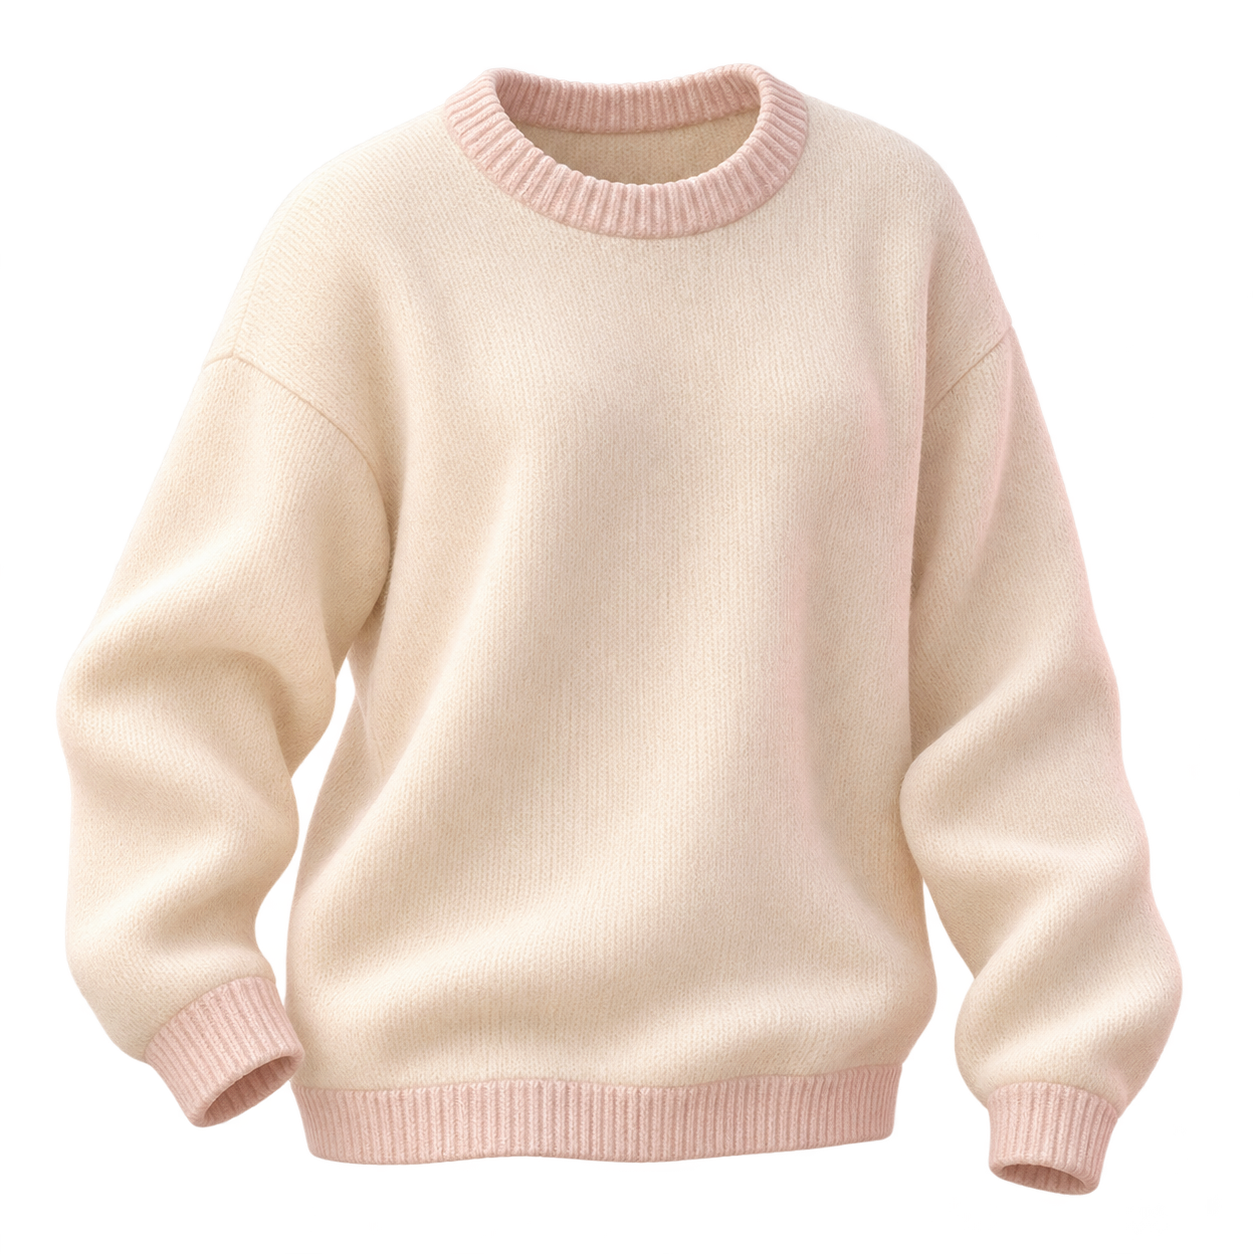
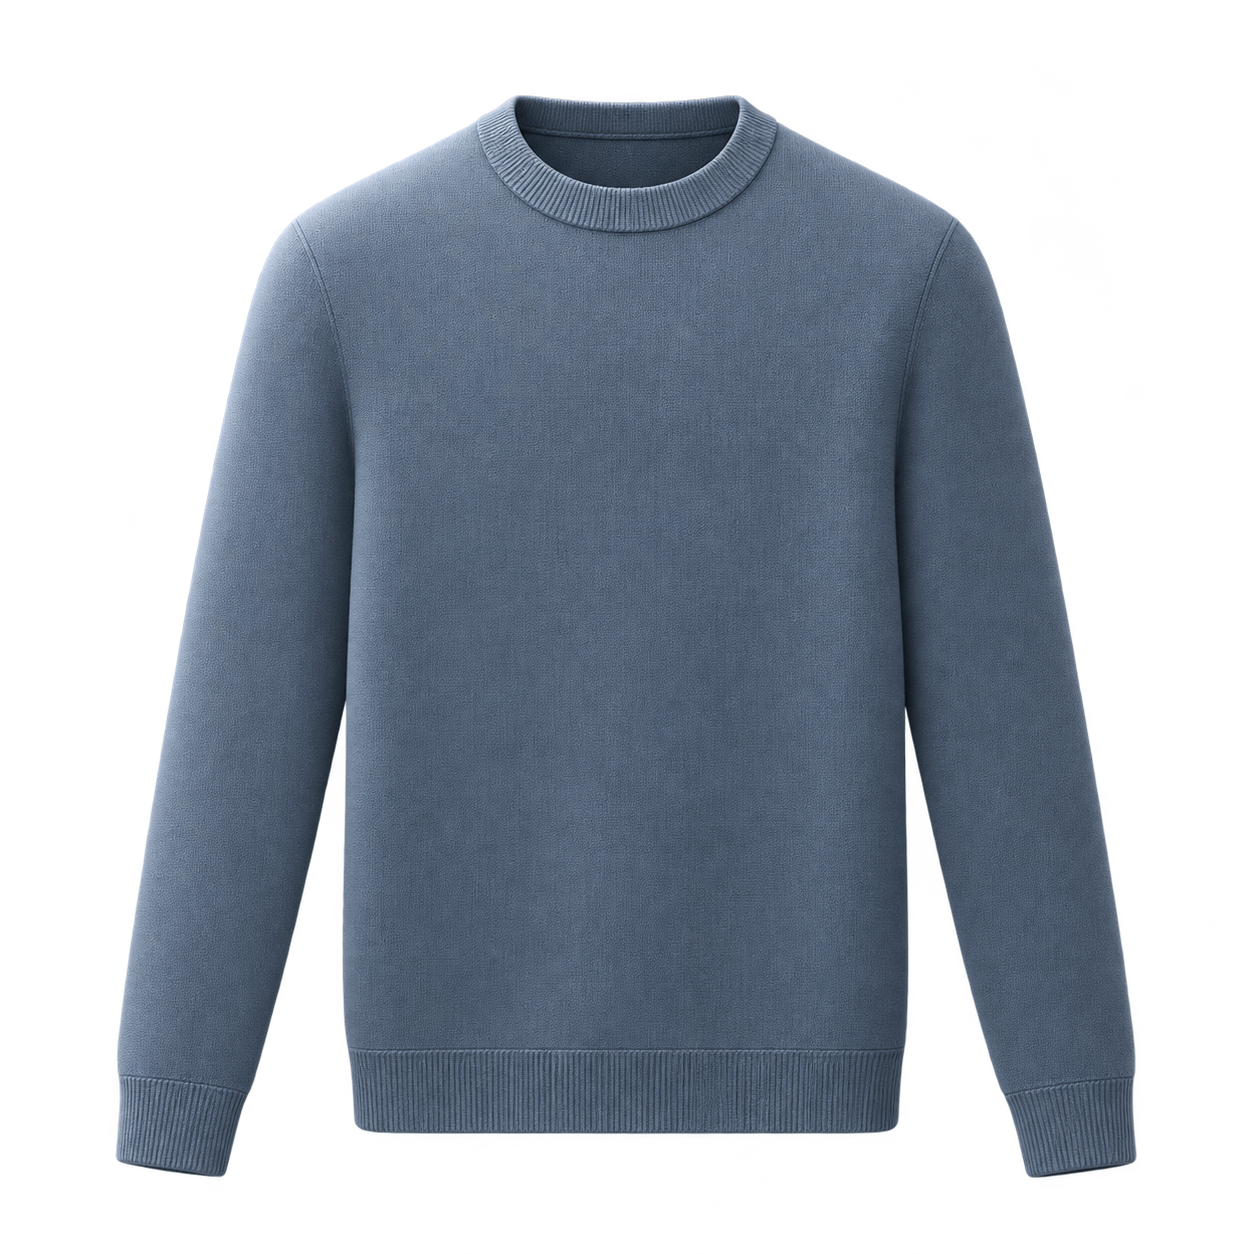
feat(wishes): refine clothing and remove armchair

diff --git a/lib/domain/wishlist_goal.dart b/lib/domain/wishlist_goal.dart
@@ -73,7 +73,6 @@ const goalStyles = [
   'travel',
   'clothing',
   'learning',
-  'home',
 ];
 const goalStyleNames = {
   'gift': '自由心愿',
@@ -83,7 +82,6 @@ const goalStyleNames = {
   'travel': '旅行探索',
   'clothing': '服饰穿搭',
   'learning': '阅读学习',
-  'home': '舒适居家',
 };
 String goalAsset(String style) => style == 'gift'
     ? 'assets/characters/wish-gift-v1.png'

diff --git a/test/widgets/wish_styles_test.dart b/test/widgets/wish_styles_test.dart
@@ -6,7 +6,7 @@ import '../support/memory_repository.dart';
 import 'package:wallehog/domain/backup.dart';
 
 void main() {
-  for (final style in ['travel', 'clothing', 'learning', 'home']) {
+  for (final style in ['travel', 'clothing', 'learning']) {
     testWidgets('new representative wish $style preserves a custom name', (
       tester,
     ) async {

diff --git a/lib/app/app_strings.dart b/lib/app/app_strings.dart
@@ -232,7 +232,6 @@ const englishMessages = <String, String>{
   '旅行探索': 'Travel and exploration',
   '服饰穿搭': 'Clothing and style',
   '阅读学习': 'Reading and learning',
-  '舒适居家': 'Home comforts',
   '耳机': 'Headphones',
   '相机': 'Camera',
   '存下一个小确幸': 'A little win saved',

diff --git a/docs/WISH_ILLUSTRATIONS.md b/docs/WISH_ILLUSTRATIONS.md
@@ -2,17 +2,15 @@
 
 [English](WISH_ILLUSTRATIONS.md) · [简体中文](WISH_ILLUSTRATIONS.zh-CN.md)
 
-2026-11-10. Integration target: main; development branch: codex/wish-images. Visual acceptance is pending. Do not treat this checkpoint as completed device delivery.
+2026-11-10. Branch: codex/wish-images. Integration target: main. Visual review is ongoing; device delivery, integration and push are pending. Other independent work has not been integrated.
 
-New illustrations represent categories rather than particular brands or models: suitcase for travel and holidays; sweater for clothing, personal style and wardrobe upgrades; books for reading, courses and learning; armchair for furniture, decoration and home comfort. These extend the existing four choices to eight. Existing controller, headphones, camera and gift remain unchanged. Users select an illustration explicitly and supply their own wish name and amount; names do not infer categories or prices.
+Three new representative categories extend the existing four choices to seven: suitcase for travel and holidays; sweater for clothing and personal style; books for reading, courses and learning. The user removed the sneaker and armchair during review. Existing controller, headphones, camera and gift remain unchanged. Illustration selection is explicit; users supply their own wish name and amount, without automatic category or price inference.
 
-Original PNGs were generated using the built-in ImageGen tool, copied unchanged into assets/characters, with alpha preserved. No reference image was supplied to generation. Prompts use the existing camera and gift's material and lighting description. No dependency, database migration or backup format change is required. The existing editor wraps the eight options into two rows.
+Style follows the existing crisp physical-object 3D renders, soft lighting and refined materials. Pink is optional, not a palette requirement. The revised sweater is muted slate blue, neatly arranged with level shoulders, straight sleeves and an even hem, without rumpled fabric or prominent folds.
 
-Pending: user visual feedback, final device validation and ordinary-app installation, integration and push. Other ongoing branches have not been integrated. Full prompts follow.
+Built-in ImageGen produced the original transparent PNGs, copied unchanged into assets/characters with alpha preserved. Travel and books used descriptive prompts without image inputs. The revised sweater used the existing controller, headphones and camera as style references only. No new dependencies, database migration or backup format change is required. The existing editor displays seven choices across two rows.
 
-Previous checkpoint validation (before replacing the sneaker): all four PNGs are 1254 × 1254 RGBA with genuine alpha. Dart formatting, flutter analyze, 19 focused tests, release APK build and git diff --check passed.
-
-Review update: the user requested replacing the sneaker with clothing. The new sweater uses style key clothing and label Clothing and style. The sneaker is removed from runtime assets; the earlier source checkpoint preserves its history. The new PNG is 1254 × 1254 RGBA. Formatting, analysis and 19 focused tests pass after replacement. No APK rebuild/install during this review iteration.
+Validation for the previous checkpoint: formatting, static analysis, 19 focused tests and a release APK build passed. After removing the armchair and revising the sweater, formatting, static analysis and 18 focused tests passed; no APK rebuild/install during individual review annotations. Full prompts follow.
 
 ## wish-travel-v1.png
 
@@ -23,7 +21,7 @@ Use case: stylized-concept. Asset type: Wallehog mobile savings wish-card transp
 ## wish-clothing-v1.png
 
 ```text
-undefined
+Use case: stylized-concept. Create a new Wallehog savings app wish illustration. Input images 1-3 are STYLE REFERENCES ONLY: existing controller, headphones and camera. Match their premium realistic physical-object 3D product render, crisp silhouette, restrained material detailing, soft upper-left studio lighting and clean isolated presentation; do not copy their subjects. Subject: ONE unbranded gender-neutral classic fine-knit crew-neck pullover in muted slate blue, with matching tonal ribbed collar, cuffs and hem, no pink trim. The sweater represents clothing and personal style generally. Neat product catalog display, pressed and meticulously arranged, frontal view with extremely subtle depth, straight horizontal hem, balanced level shoulders, both sleeves straight and neatly angled downward symmetrically, no bent cuffs. Smooth even body and sleeves, NO wrinkles, rumples, draped folds, sagging fabric, bunching, creases or wavy hem. Fine subtle knit texture is visible but shape is structured and tidy, not inflated or puffy. Garment empty, no mannequin, person, hanger or body. Single centered object fully visible within square canvas with 10 percent transparent margins. Actual transparent background with clean antialiasing. No text, labels, brands, logos, decorations, coins, pig, props, scenery, ground, baked drop shadow or watermark. This is a clothing category representative, not a fashion advertisement. Keep it readable as a small wish-card icon.
 ```
 
 ## wish-learning-v1.png
@@ -31,10 +29,3 @@ undefined
 ```text
 Use case: stylized-concept. Asset type: Wallehog mobile savings wish-card transparent illustration. Two beautifully bound books stacked with one slightly rotated, ivory and muted sage covers with a blush ribbon bookmark. Represents reading, courses, study and personal growth; blank covers and spines. Premium satin physical product 3D render matching the existing ivory champagne camera and blush gift assets. Soft upper-left studio lighting, delicate pink reflected light, refined tactile material, calm warm playful mood. Three-quarter view facing slightly left, centered square composition, entire object visible occupying about 78 percent of canvas with generous margins. Gently floating isolated cutout. Actual transparent background. No brand, logos, text, letters, numbers, coins, people, pig, scenery, ground plane, baked drop shadow or watermark. A representative category symbol that remains recognizable at 64px; simple clear silhouette, restrained detail. Save PNG.
 ```
-
-## wish-home-v1.png
-
-```text
-Use case: stylized-concept. Asset type: Wallehog mobile savings wish-card transparent illustration. One inviting rounded upholstered armchair, ivory soft fabric, pale wooden feet and one muted blush cushion. Represents furniture, home decoration and a comfortable living space, not a particular product. Premium satin physical product 3D render matching the existing ivory champagne camera and blush gift assets. Soft upper-left studio lighting, delicate pink reflected light, refined tactile material, calm warm playful mood. Three-quarter view facing slightly left, centered square composition, entire object visible occupying about 78 percent of canvas with generous margins. Gently floating isolated cutout. Actual transparent background. No brand, logos, text, letters, numbers, coins, people, pig, scenery, ground plane, baked drop shadow or watermark. A representative category symbol that remains recognizable at 64px; simple clear silhouette, restrained detail. Save PNG.
-```
-

diff --git a/docs/WISH_ILLUSTRATIONS.zh-CN.md b/docs/WISH_ILLUSTRATIONS.zh-CN.md
@@ -2,17 +2,15 @@
 
 [English](WISH_ILLUSTRATIONS.md) · [简体中文](WISH_ILLUSTRATIONS.zh-CN.md)
 
-2026-11-10。集成目标：main；开发分支：codex/wish-images。视觉验收待完成，此检查点不代表真机交付完成。
+2026-11-10。分支：codex/wish-images；集成目标：main。视觉评审进行中；真机交付、集成及推送待完成，其他独立工作尚未集成。
 
-新增插画用代表物表达类别，而非具体品牌或型号：旅行箱代表旅行与度假；针织衫代表服装、穿搭与衣橱更新；书本代表阅读、课程与学习；扶手椅代表家具、布置与居家舒适。现有四个选项扩展为八个，原手柄、耳机、相机与礼物不变。用户明确选择图片并填写自己的心愿名称与金额，不按名称推断类别或价格。
+新增三类代表物，现有四个选项扩展为七个：旅行箱代表旅行与度假；针织衫代表服装与穿搭；书本代表阅读、课程与学习。用户在评审中移除了运动鞋与扶手椅。现有手柄、耳机、相机和礼物不变。用户明确选择图片，自己填写心愿名称和金额，不自动推断类别或价格。
 
-原创 PNG 使用内置 ImageGen 生成，原样复制到 assets/characters 并保留 alpha。生成时未输入参考图片；提示词沿用现有相机与礼物的材质、光照描述。无需新增依赖、数据库迁移或备份格式变更。现有编辑器将八个选项自动排列为两行。
+风格遵循现有素材清晰的实体物件立体效果、柔和光照与精致材质。粉色可选，并非配色要求。新版针织衫采用低饱和灰蓝色，肩线水平、袖子平直、下摆齐整，避免凌乱衣形和明显褶皱。
 
-待完成：用户视觉反馈、最终真机验证与普通应用覆盖安装、集成及推送。其他进行中的分支尚未集成。以下为完整提示词。
+原创透明 PNG 由内置 ImageGen 生成，原样复制到 assets/characters 并保留 alpha。旅行箱与书本使用文字描述，未输入图片；新版针织衫以现有手柄、耳机和相机作为风格参考。无需新增依赖、数据库迁移或备份格式变更。现有编辑器分两行显示七个选项。
 
-替换运动鞋前的检查点验证：四张 PNG 均为 1254 × 1254 RGBA，含真实透明通道。Dart 格式化、flutter analyze、19 项相关测试、release APK 构建及 git diff --check 通过。
-
-评审更新：用户要求将鞋子换成衣服。新针织衫使用 clothing 样式键及“服饰穿搭”名称。运动鞋已从运行素材移除，之前的源码检查点保留历史。新 PNG 为 1254 × 1254 RGBA。替换后格式化、分析及 19 项相关测试通过。本轮评审迭代未重复构建或安装 APK。
+此前检查点的格式化、静态分析、19 项相关测试及 release APK 构建通过。移除扶手椅并重做衣服后，格式化、静态分析与 18 项相关测试通过，不针对单条批注重复构建或安装 APK。以下为完整提示词。
 
 ## wish-travel-v1.png
 
@@ -23,7 +21,7 @@ Use case: stylized-concept. Asset type: Wallehog mobile savings wish-card transp
 ## wish-clothing-v1.png
 
 ```text
-undefined
+Use case: stylized-concept. Create a new Wallehog savings app wish illustration. Input images 1-3 are STYLE REFERENCES ONLY: existing controller, headphones and camera. Match their premium realistic physical-object 3D product render, crisp silhouette, restrained material detailing, soft upper-left studio lighting and clean isolated presentation; do not copy their subjects. Subject: ONE unbranded gender-neutral classic fine-knit crew-neck pullover in muted slate blue, with matching tonal ribbed collar, cuffs and hem, no pink trim. The sweater represents clothing and personal style generally. Neat product catalog display, pressed and meticulously arranged, frontal view with extremely subtle depth, straight horizontal hem, balanced level shoulders, both sleeves straight and neatly angled downward symmetrically, no bent cuffs. Smooth even body and sleeves, NO wrinkles, rumples, draped folds, sagging fabric, bunching, creases or wavy hem. Fine subtle knit texture is visible but shape is structured and tidy, not inflated or puffy. Garment empty, no mannequin, person, hanger or body. Single centered object fully visible within square canvas with 10 percent transparent margins. Actual transparent background with clean antialiasing. No text, labels, brands, logos, decorations, coins, pig, props, scenery, ground, baked drop shadow or watermark. This is a clothing category representative, not a fashion advertisement. Keep it readable as a small wish-card icon.
 ```
 
 ## wish-learning-v1.png
@@ -31,10 +29,3 @@ undefined
 ```text
 Use case: stylized-concept. Asset type: Wallehog mobile savings wish-card transparent illustration. Two beautifully bound books stacked with one slightly rotated, ivory and muted sage covers with a blush ribbon bookmark. Represents reading, courses, study and personal growth; blank covers and spines. Premium satin physical product 3D render matching the existing ivory champagne camera and blush gift assets. Soft upper-left studio lighting, delicate pink reflected light, refined tactile material, calm warm playful mood. Three-quarter view facing slightly left, centered square composition, entire object visible occupying about 78 percent of canvas with generous margins. Gently floating isolated cutout. Actual transparent background. No brand, logos, text, letters, numbers, coins, people, pig, scenery, ground plane, baked drop shadow or watermark. A representative category symbol that remains recognizable at 64px; simple clear silhouette, restrained detail. Save PNG.
 ```
-
-## wish-home-v1.png
-
-```text
-Use case: stylized-concept. Asset type: Wallehog mobile savings wish-card transparent illustration. One inviting rounded upholstered armchair, ivory soft fabric, pale wooden feet and one muted blush cushion. Represents furniture, home decoration and a comfortable living space, not a particular product. Premium satin physical product 3D render matching the existing ivory champagne camera and blush gift assets. Soft upper-left studio lighting, delicate pink reflected light, refined tactile material, calm warm playful mood. Three-quarter view facing slightly left, centered square composition, entire object visible occupying about 78 percent of canvas with generous margins. Gently floating isolated cutout. Actual transparent background. No brand, logos, text, letters, numbers, coins, people, pig, scenery, ground plane, baked drop shadow or watermark. A representative category symbol that remains recognizable at 64px; simple clear silhouette, restrained detail. Save PNG.
-```
-

diff --git a/docs/STATUS.md b/docs/STATUS.md
@@ -7,9 +7,9 @@ Updated: 2026-11-07.
 
 ## Representative wish images (2026-11-10)
 
-- Branch: `codex/wish-images`; integration target: `main`. Added suitcase, sweater, books and armchair as representative travel, clothing, learning and home illustrations; existing four assets remain unchanged. See [asset sources and prompts](WISH_ILLUSTRATIONS.md).
-- Formatting, static analysis and 19 focused wish/widget/backup tests pass. The previous sneaker checkpoint built a universal release APK (61.5 MB); no rebuild/install was performed during the clothing review iteration. Visual feedback and physical-device delivery remain pending.
-- Other independent work remains unfinished (`codex/home-widget`, `codex/wish-binding-review`, `codex/apk-signing-fix`). This source checkpoint does not integrate those tasks or replace the ordinary app. Integration and push remain pending until the combined delivery is ready.
+- Branch: `codex/wish-images`; target: `main`. Three new categories: travel, clothing and learning. The user removed the sneaker and armchair, requested a tidy sweater without wrinkles, and clarified that pink is optional. See [sources and prompts](WISH_ILLUSTRATIONS.md).
+- Visual review continues. Previous checkpoint analysis, 19 tests and release build passed; latest iteration formatting, analysis and 18 focused tests passed. No APK rebuild/install for individual review annotations.
+- Device delivery, integration and push remain pending; other independent work remains unfinished (`codex/home-widget`, `codex/wish-binding-review`, `codex/apk-signing-fix`).
 
 ## Repository synchronization
 

diff --git a/docs/STATUS.zh-CN.md b/docs/STATUS.zh-CN.md
@@ -7,9 +7,9 @@
 
 ## 心愿类别图片（2026-11-10）
 
-- 分支：`codex/wish-images`；集成目标：`main`。新增旅行箱、针织衫、书本和扶手椅，分别代表旅行、服饰、学习和居家；现有四张素材不变。见[素材来源及提示词](WISH_ILLUSTRATIONS.zh-CN.md)。
-- 格式化、静态分析及 19 项心愿、界面和备份相关测试通过。此前运动鞋检查点的通用 release APK 构建通过（61.5 MB），衣服评审迭代未重复构建或安装；视觉反馈与真机交付待完成。
-- 其他独立工作尚未完成（`codex/home-widget`、`codex/wish-binding-review`、`codex/apk-signing-fix`）。此源码检查点不集成这些任务，不替换普通应用；集成与推送等待组合交付就绪。
+- 分支：`codex/wish-images`；目标：`main`。新增旅行、服饰和学习三类。用户移除运动鞋与扶手椅，要求衣服整齐无明显褶皱，并明确不限定粉色。见[来源与提示词](WISH_ILLUSTRATIONS.zh-CN.md)。
+- 视觉评审继续；此前检查点的分析、19 项测试与 release 构建通过，最新迭代格式化、分析及 18 项相关测试通过。不针对单条批注重复构建或安装 APK。
+- 真机交付、集成及推送待完成；其他独立工作尚未完成（`codex/home-widget`、`codex/wish-binding-review`、`codex/apk-signing-fix`）。
 
 ## 仓库同步
 
